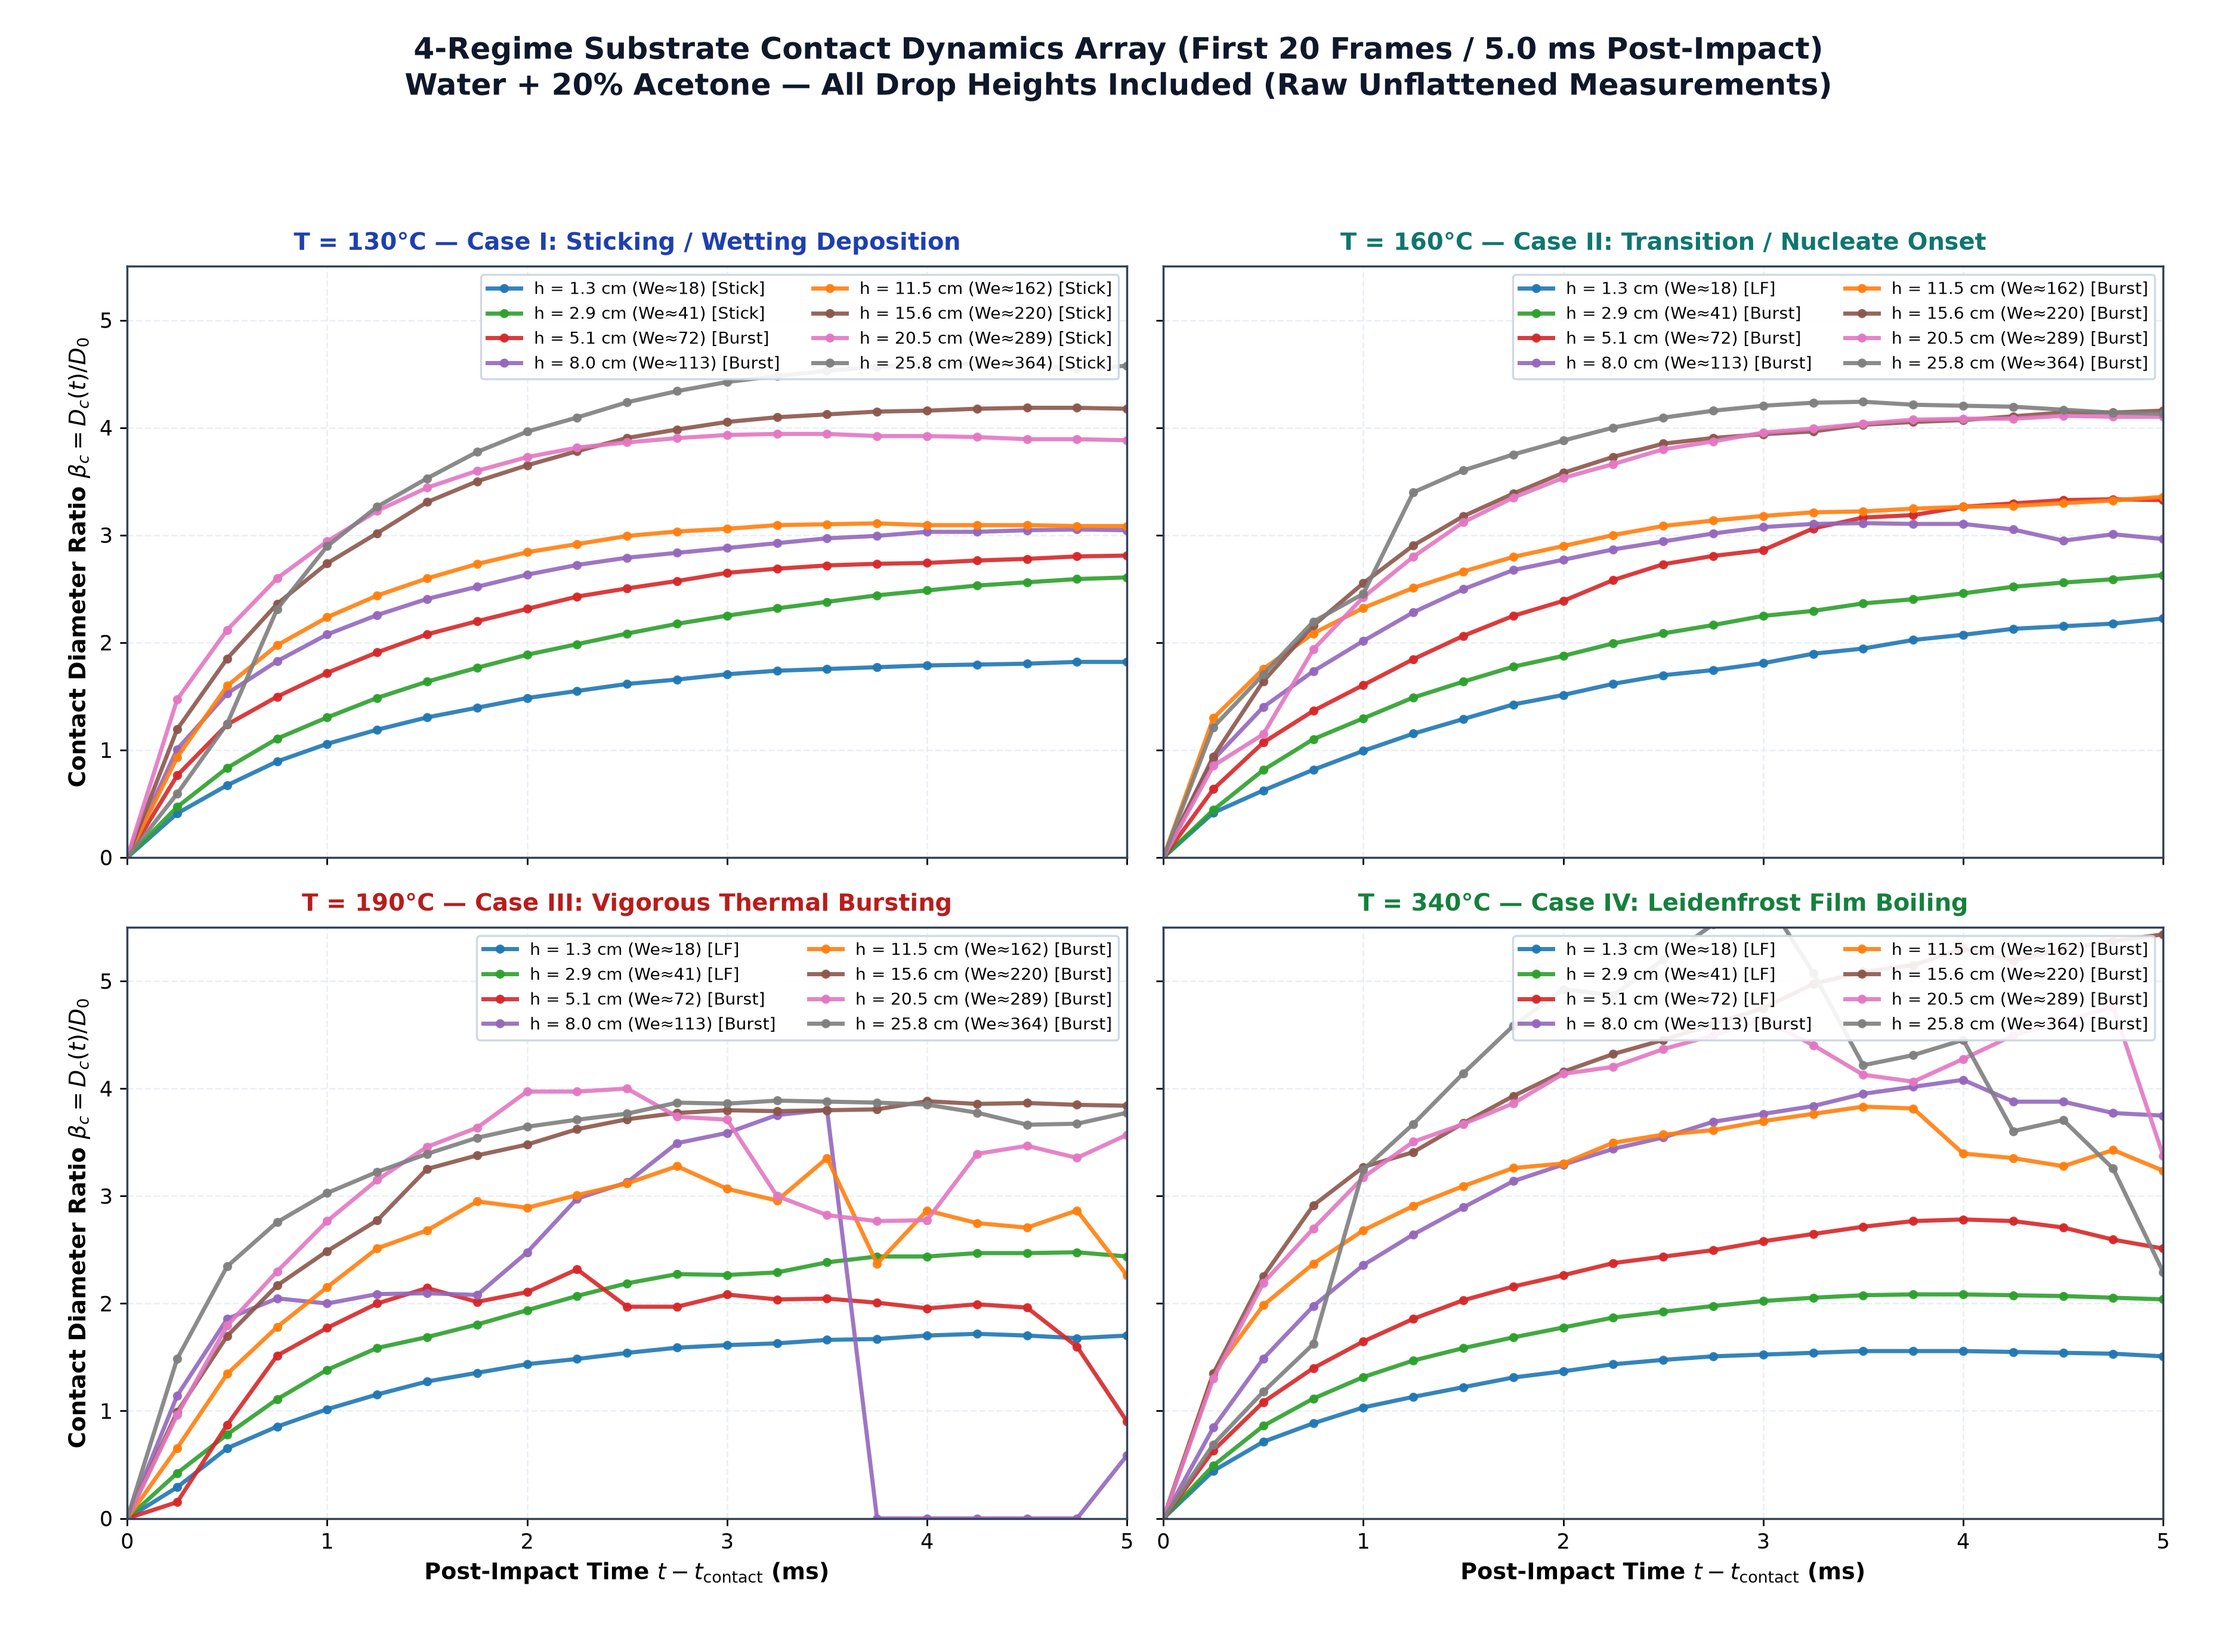
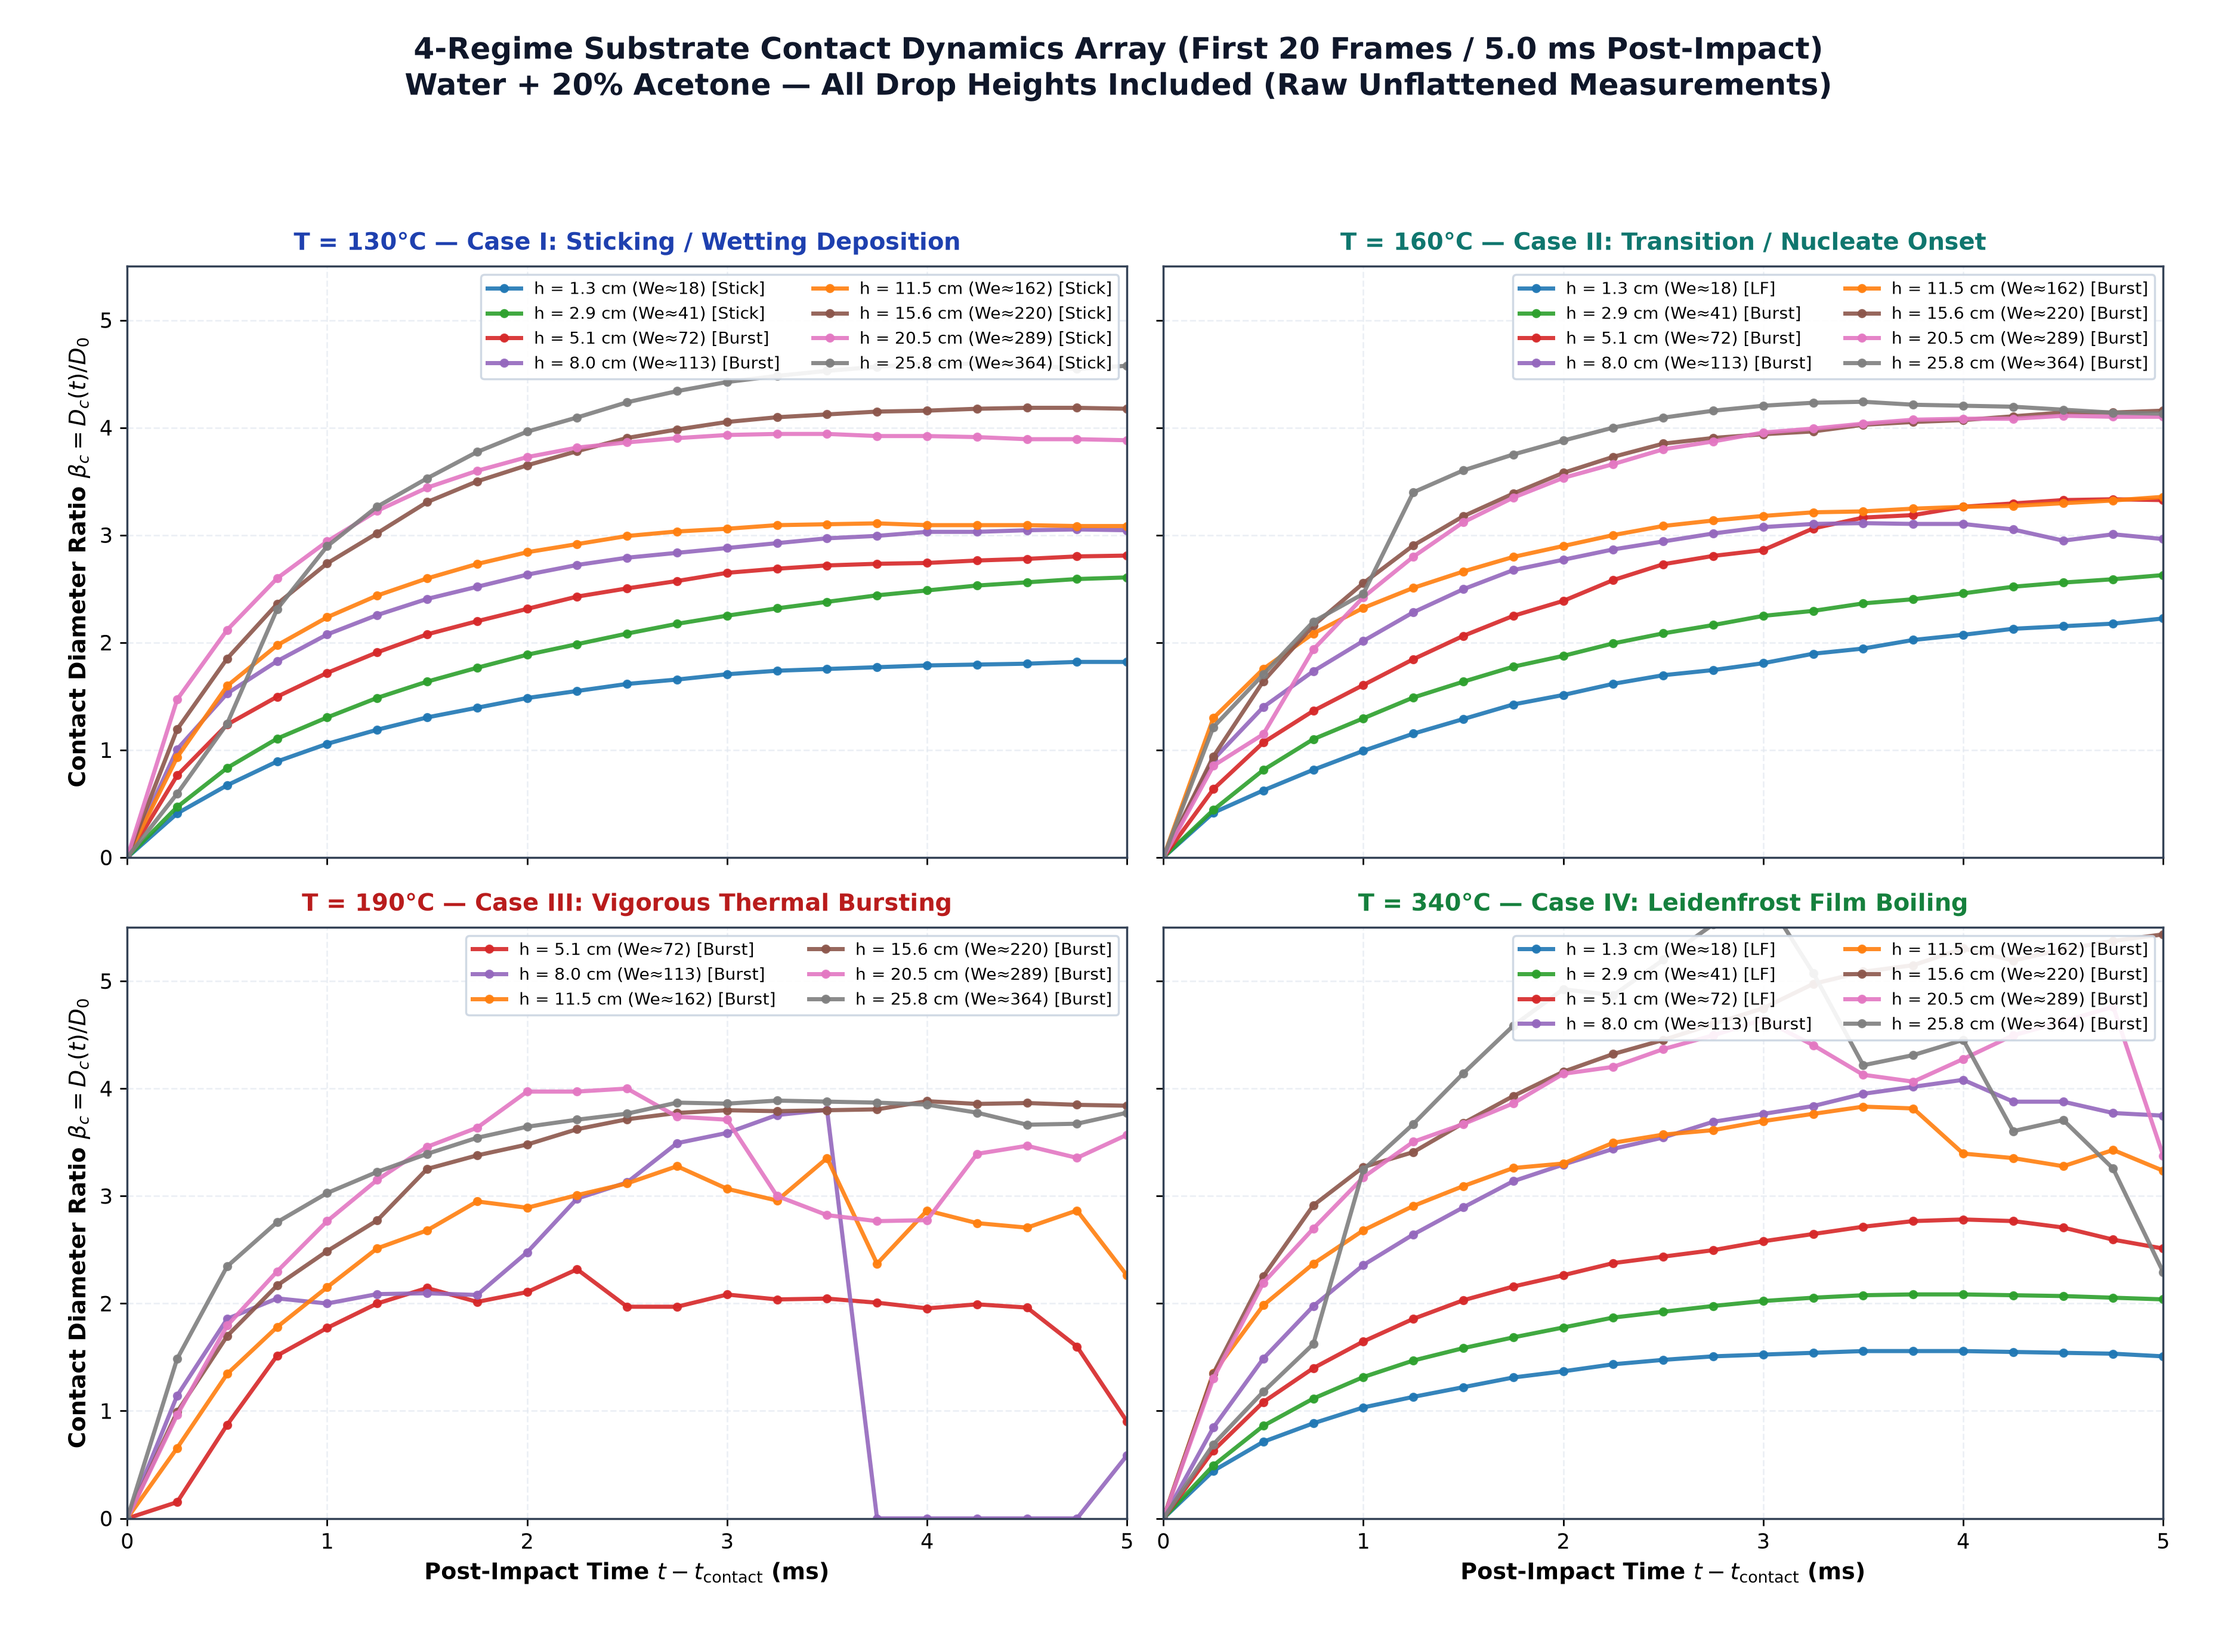
Remove non-bursting 1.3cm and 2.9cm curves from 190C bursting panel for 20% acetone in Category 7

diff --git a/generate_plot_2_suite.py b/generate_plot_2_suite.py
@@ -1343,6 +1343,11 @@ def generate_category_7_four_regime_array(df):
                 we = float(r_case['Weber_Number'])
                 reg = str(r_case['Final_Regime'])
 
+                # For 20% acetone at 190°C (Case III: Vigorous Thermal Bursting),
+                # 1.3 cm and 2.9 cm undergo non-bursting Leidenfrost rebound rather than bursting
+                if fl == '20 perc acetone' and temp_val == 190 and h_cm in [1.3, 2.9]:
+                    continue
+
                 csv_path = os.path.join(fl_dir, h_fld, c_fld, 'measurements_data.csv')
                 if not os.path.isfile(csv_path):
                     continue
